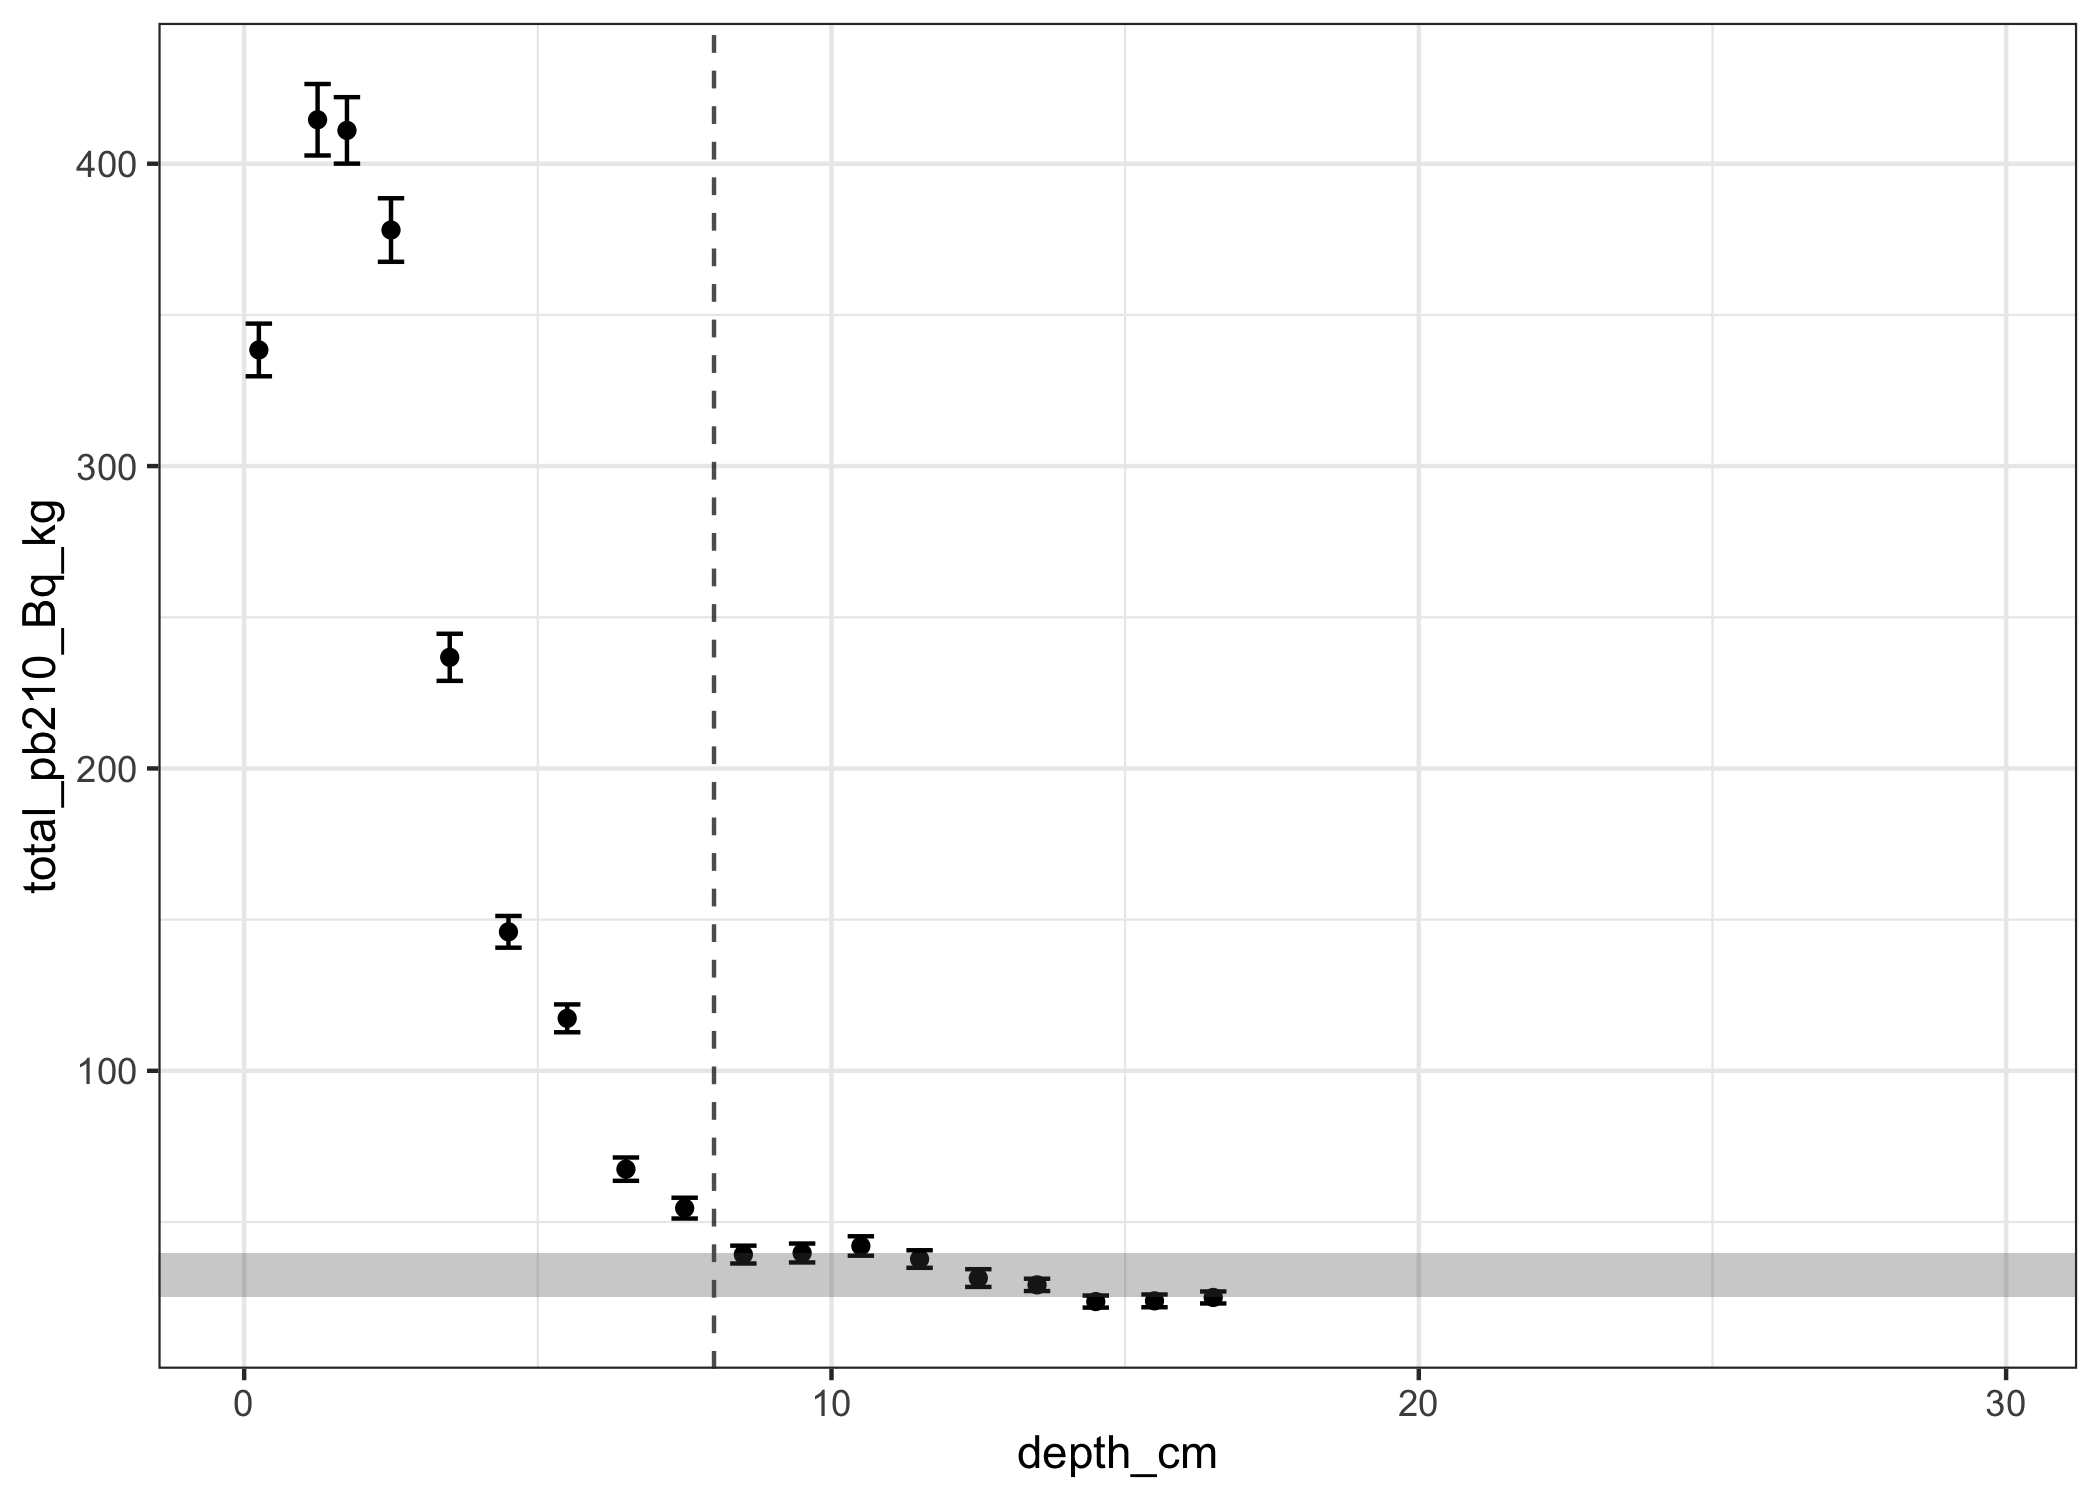
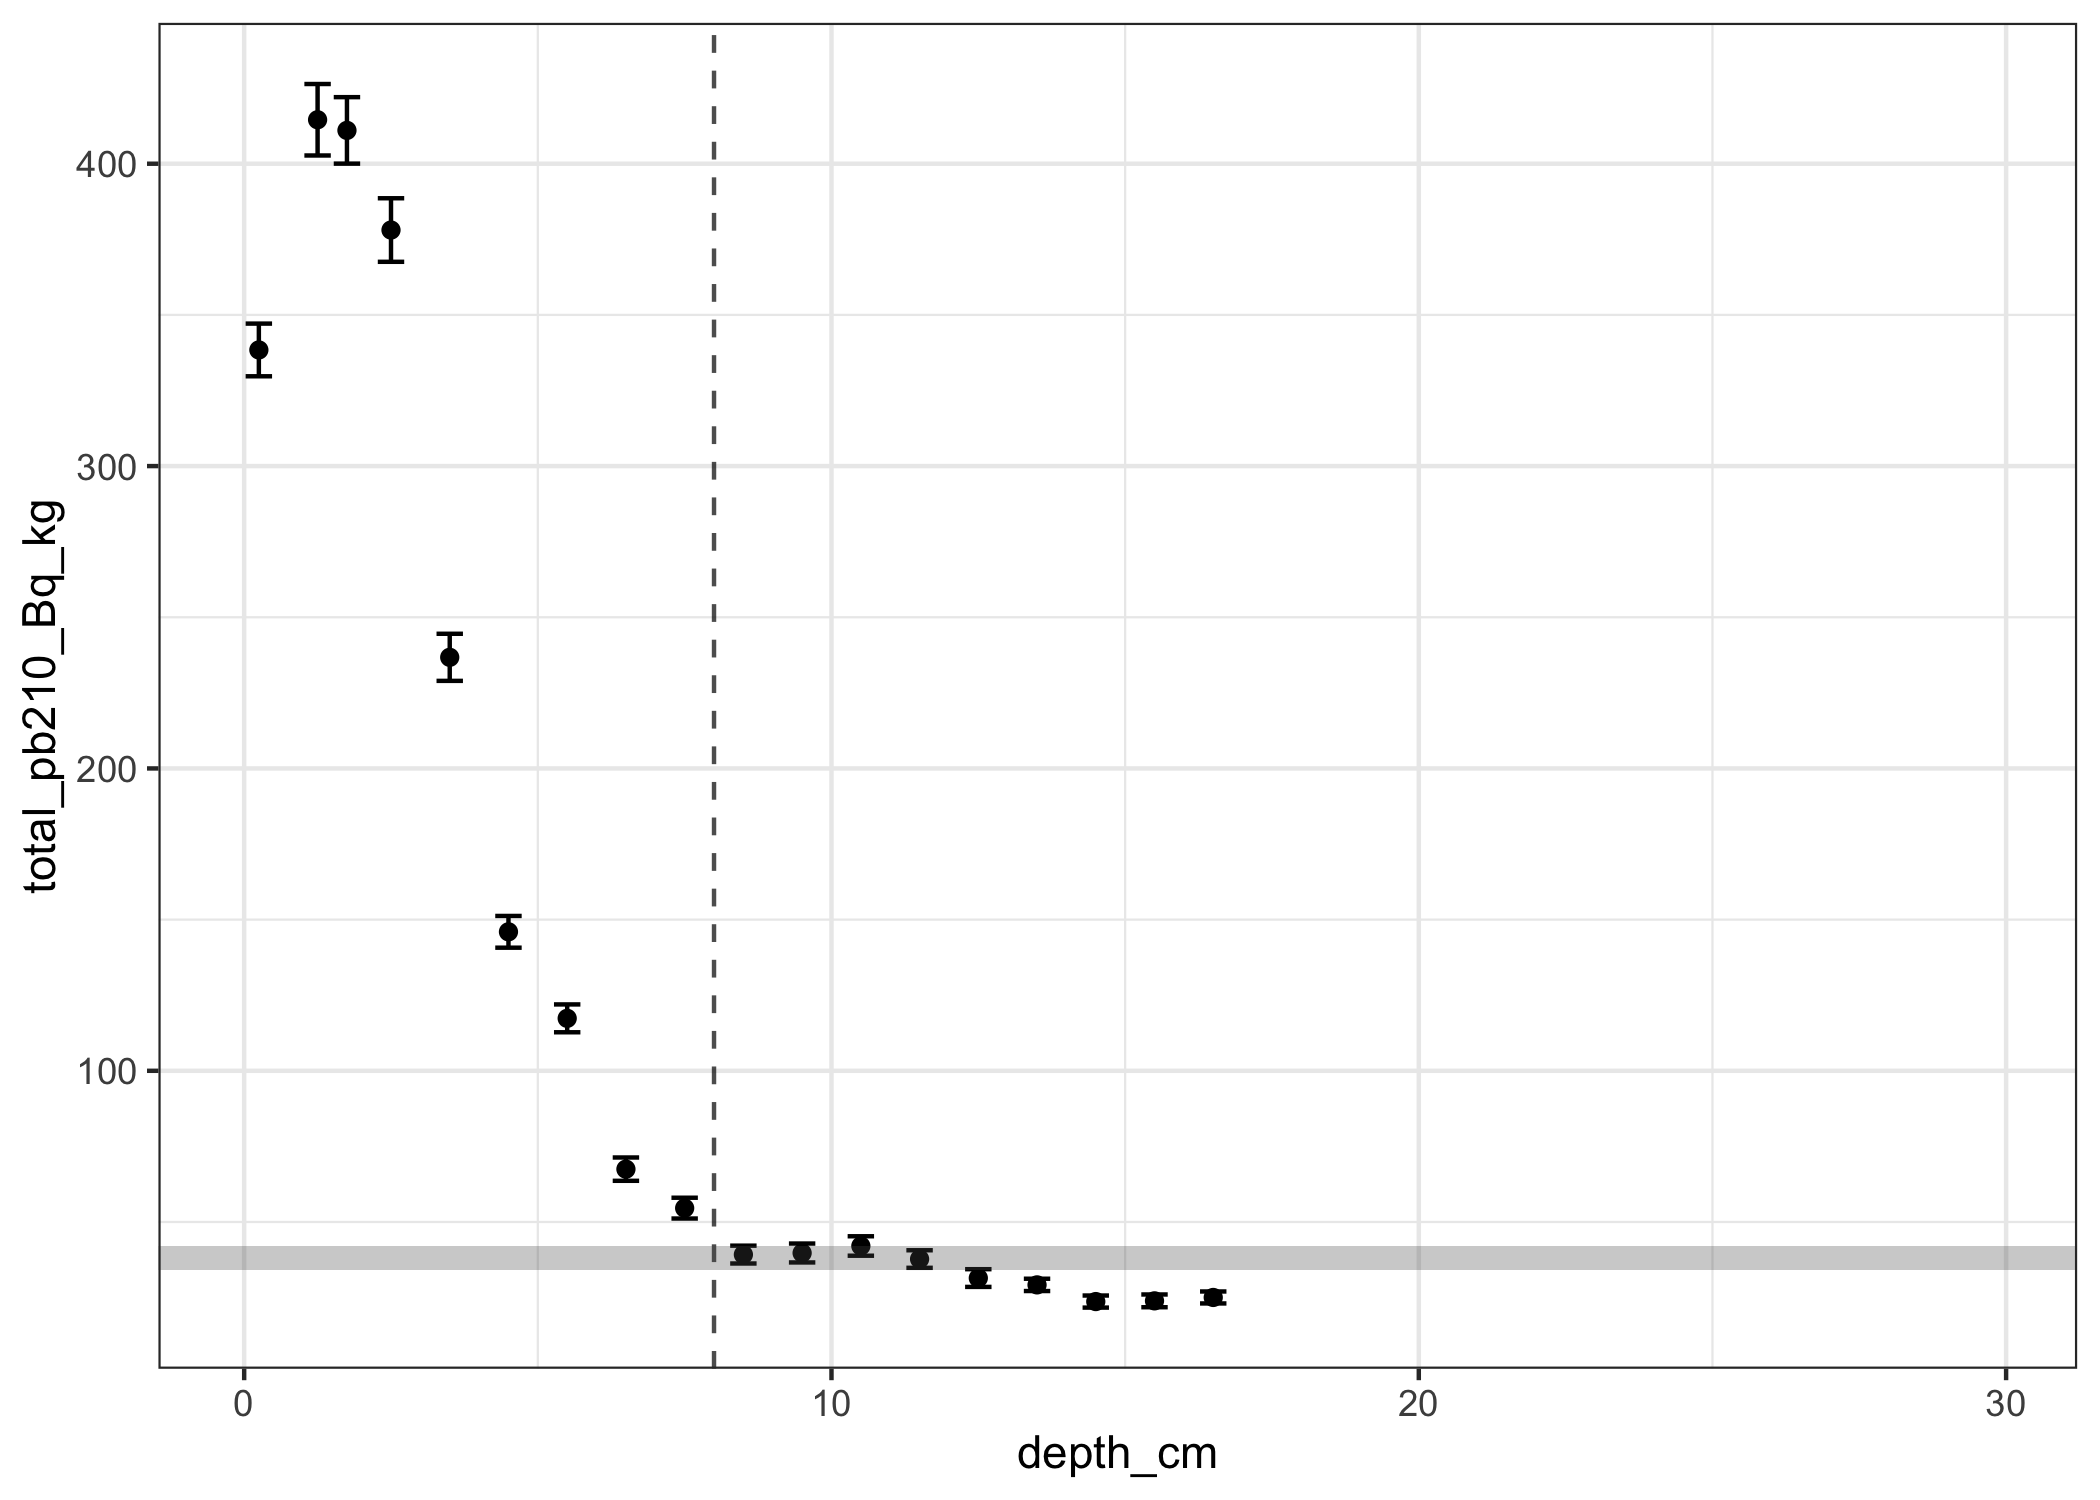
update readme

Changed region(s): [[0.0619, 0.828, 0.9905, 0.8893]]

diff --git a/README.md b/README.md
@@ -50,7 +50,7 @@ measurements of <sup>226</sup>Ra activity).
 
 ``` r
 alta_lake_background <- alta_lake_pb210 %>%
-  filter(depth_cm > 8) %>%
+  filter(depth_cm > 8, depth_cm < 13) %>%
   summarise(
     background = mean(total_pb210_Bq_kg, na.rm = TRUE),
     background_sd = sd(total_pb210_Bq_kg, na.rm = TRUE)
@@ -60,7 +60,7 @@ alta_lake_background
 #> # A tibble: 1 x 2
 #>   background background_sd
 #>        <dbl>         <dbl>
-#> 1       32.5          7.38
+#> 1       38.0          4.00
 ```
 
 <img src="man/figures/README-unnamed-chunk-4-1.png" width="100%" />
@@ -77,8 +77,6 @@ alta_lake_pb210$excess_pb210 <- pb210_excess(
   set_errors(alta_lake_pb210$total_pb210_Bq_kg, alta_lake_pb210$total_pb210_sd),
   set_errors(alta_lake_background$background, alta_lake_background$background_sd)
 )
-
-alta_lake_pb210$excess_pb210[alta_lake_pb210$depth_cm > 8] <- NA
 ```
 
 <img src="man/figures/README-unnamed-chunk-6-1.png" width="100%" />
@@ -92,7 +90,9 @@ cumulative dry mass in kilograms as an input (as do the other dating
 functions).
 
 ``` r
-alta_lake_pb210$cumulative_dry_mass <- pb210_cumulative_mass(alta_lake_pb210$slice_mass_g / 1000)
+alta_lake_pb210$cumulative_dry_mass <- pb210_cumulative_mass(
+  alta_lake_pb210$slice_mass_g / 1000 / pb210_core_area(diameter = 0.063)
+)
 alta_lake_pb210$inventory <- pb210_inventory(
   alta_lake_pb210$cumulative_dry_mass,
   alta_lake_pb210$excess_pb210,
@@ -124,23 +124,24 @@ alta_lake_pb210 %>%
 #> # A tibble: 32 x 3
 #>    cumulative_dry_mass    age age_sd
 #>                  <dbl>  <dbl>  <dbl>
-#>  1             0.00132   4.60   1.81
-#>  2             0.00343   7.44  NA   
-#>  3             0.00581  11.0    1.78
-#>  4             0.00815  15.3    1.72
-#>  5             0.0139   28.4    1.82
-#>  6             0.0197   44.4    2.50
-#>  7             0.0268   64.1    3.72
-#>  8             0.0336   86.1    4.76
-#>  9             0.0420  130.    10.9 
-#> 10             0.0479   NA     NA   
+#>  1               0.422   4.70   1.58
+#>  2               1.10    7.58  NA   
+#>  3               1.86   11.2    1.64
+#>  4               2.61   15.6    1.57
+#>  5               4.44   29.0    1.65
+#>  6               6.32   45.7    2.14
+#>  7               8.61   66.1    2.92
+#>  8              10.8    89.3    3.65
+#>  9              13.5   136.     8.68
+#> 10              15.4    NA     NA   
 #> # … with 22 more rows
 ```
 
 ## Core simulation
 
-To test the package, I included a core simulator, which may be useful to
-help me improve this package.
+To test the package, I included a core simulator, which simulate the
+accumulation, sectioning, and measurement of <sup>210</sup>Pb
+accumulation.
 
 ``` r
 pb210_simulate_accumulation() %>%
